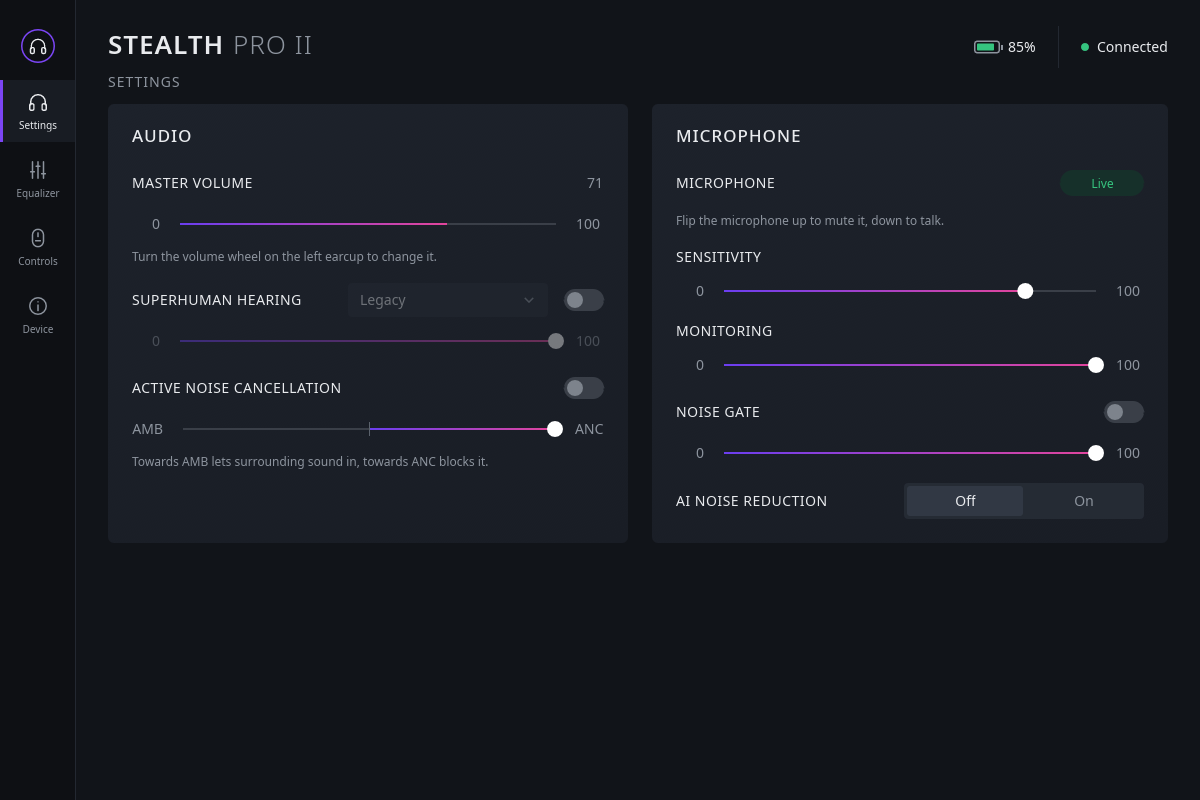
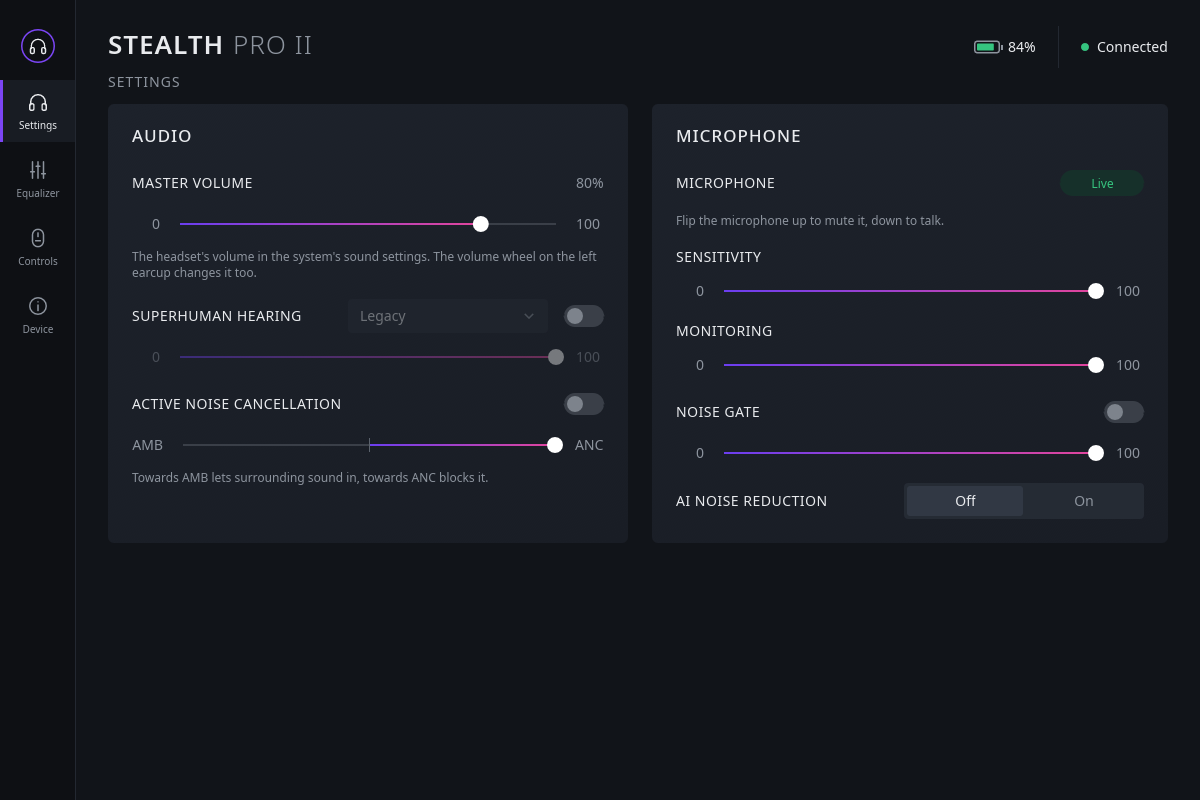
Release 1.1

diff --git a/docs/PLAN.md b/docs/PLAN.md
@@ -155,6 +155,13 @@ the fontconfig headers, and suits Swarm II's custom dark look; since 1.18 it has
 - Not covered: immutable systems (Bazzite, Kinoite, Silverblue, SteamOS) and prebuilt binaries or distribution
   packages (RPM, Flatpak).
 
+### Release 1.1 — done
+- The master volume is adjustable from the app and with `stealthctl volume`, through PipeWire (see Phase 8).
+- `stealthd` ends a headset quirk: after a restart, AI noise reduction can keep working while the headset reports
+  it off.
+- Mic recordings from Linux showed that AI noise reduction, the noise gate and the mic EQ all act on what the PC
+  records (`docs/protocol.md`).
+
 ### Phase 8: Replacements for Windows-only host features
 - **Master volume — done:** the headset's volume (`2a0`) follows the USB playback volume and takes no writes Swarm II
   was seen making. So `stealthd` sets the headset's sink volume in PipeWire (`wpctl`) and serves it as

diff --git a/README.md b/README.md
@@ -71,7 +71,7 @@ the build tools with a normal package manager.
 
 ## Status
 
-Version 1.0. The desktop app `stealth-gui` covers the same settings as Swarm II's pages, with a tray icon for the battery.
+Version 1.1. The desktop app `stealth-gui` covers the same settings as Swarm II's pages, with a tray icon for the battery.
 `stealthctl` reads all 26 records and changes both EQs (presets, bands, saving and deleting custom presets), Superhuman Hearing, ANC, mic monitoring, noise gate, sensitivity and AI noise reduction. It also sets the button and wheel functions, auto shut-off, wake on motion and the charging hub LEDs; that covers every headset setting Swarm II offers on PC except the master-volume mute toggle. See [docs/PLAN.md](docs/PLAN.md) for the roadmap and
 [docs/protocol.md](docs/protocol.md) for what is known about the protocol.
 
